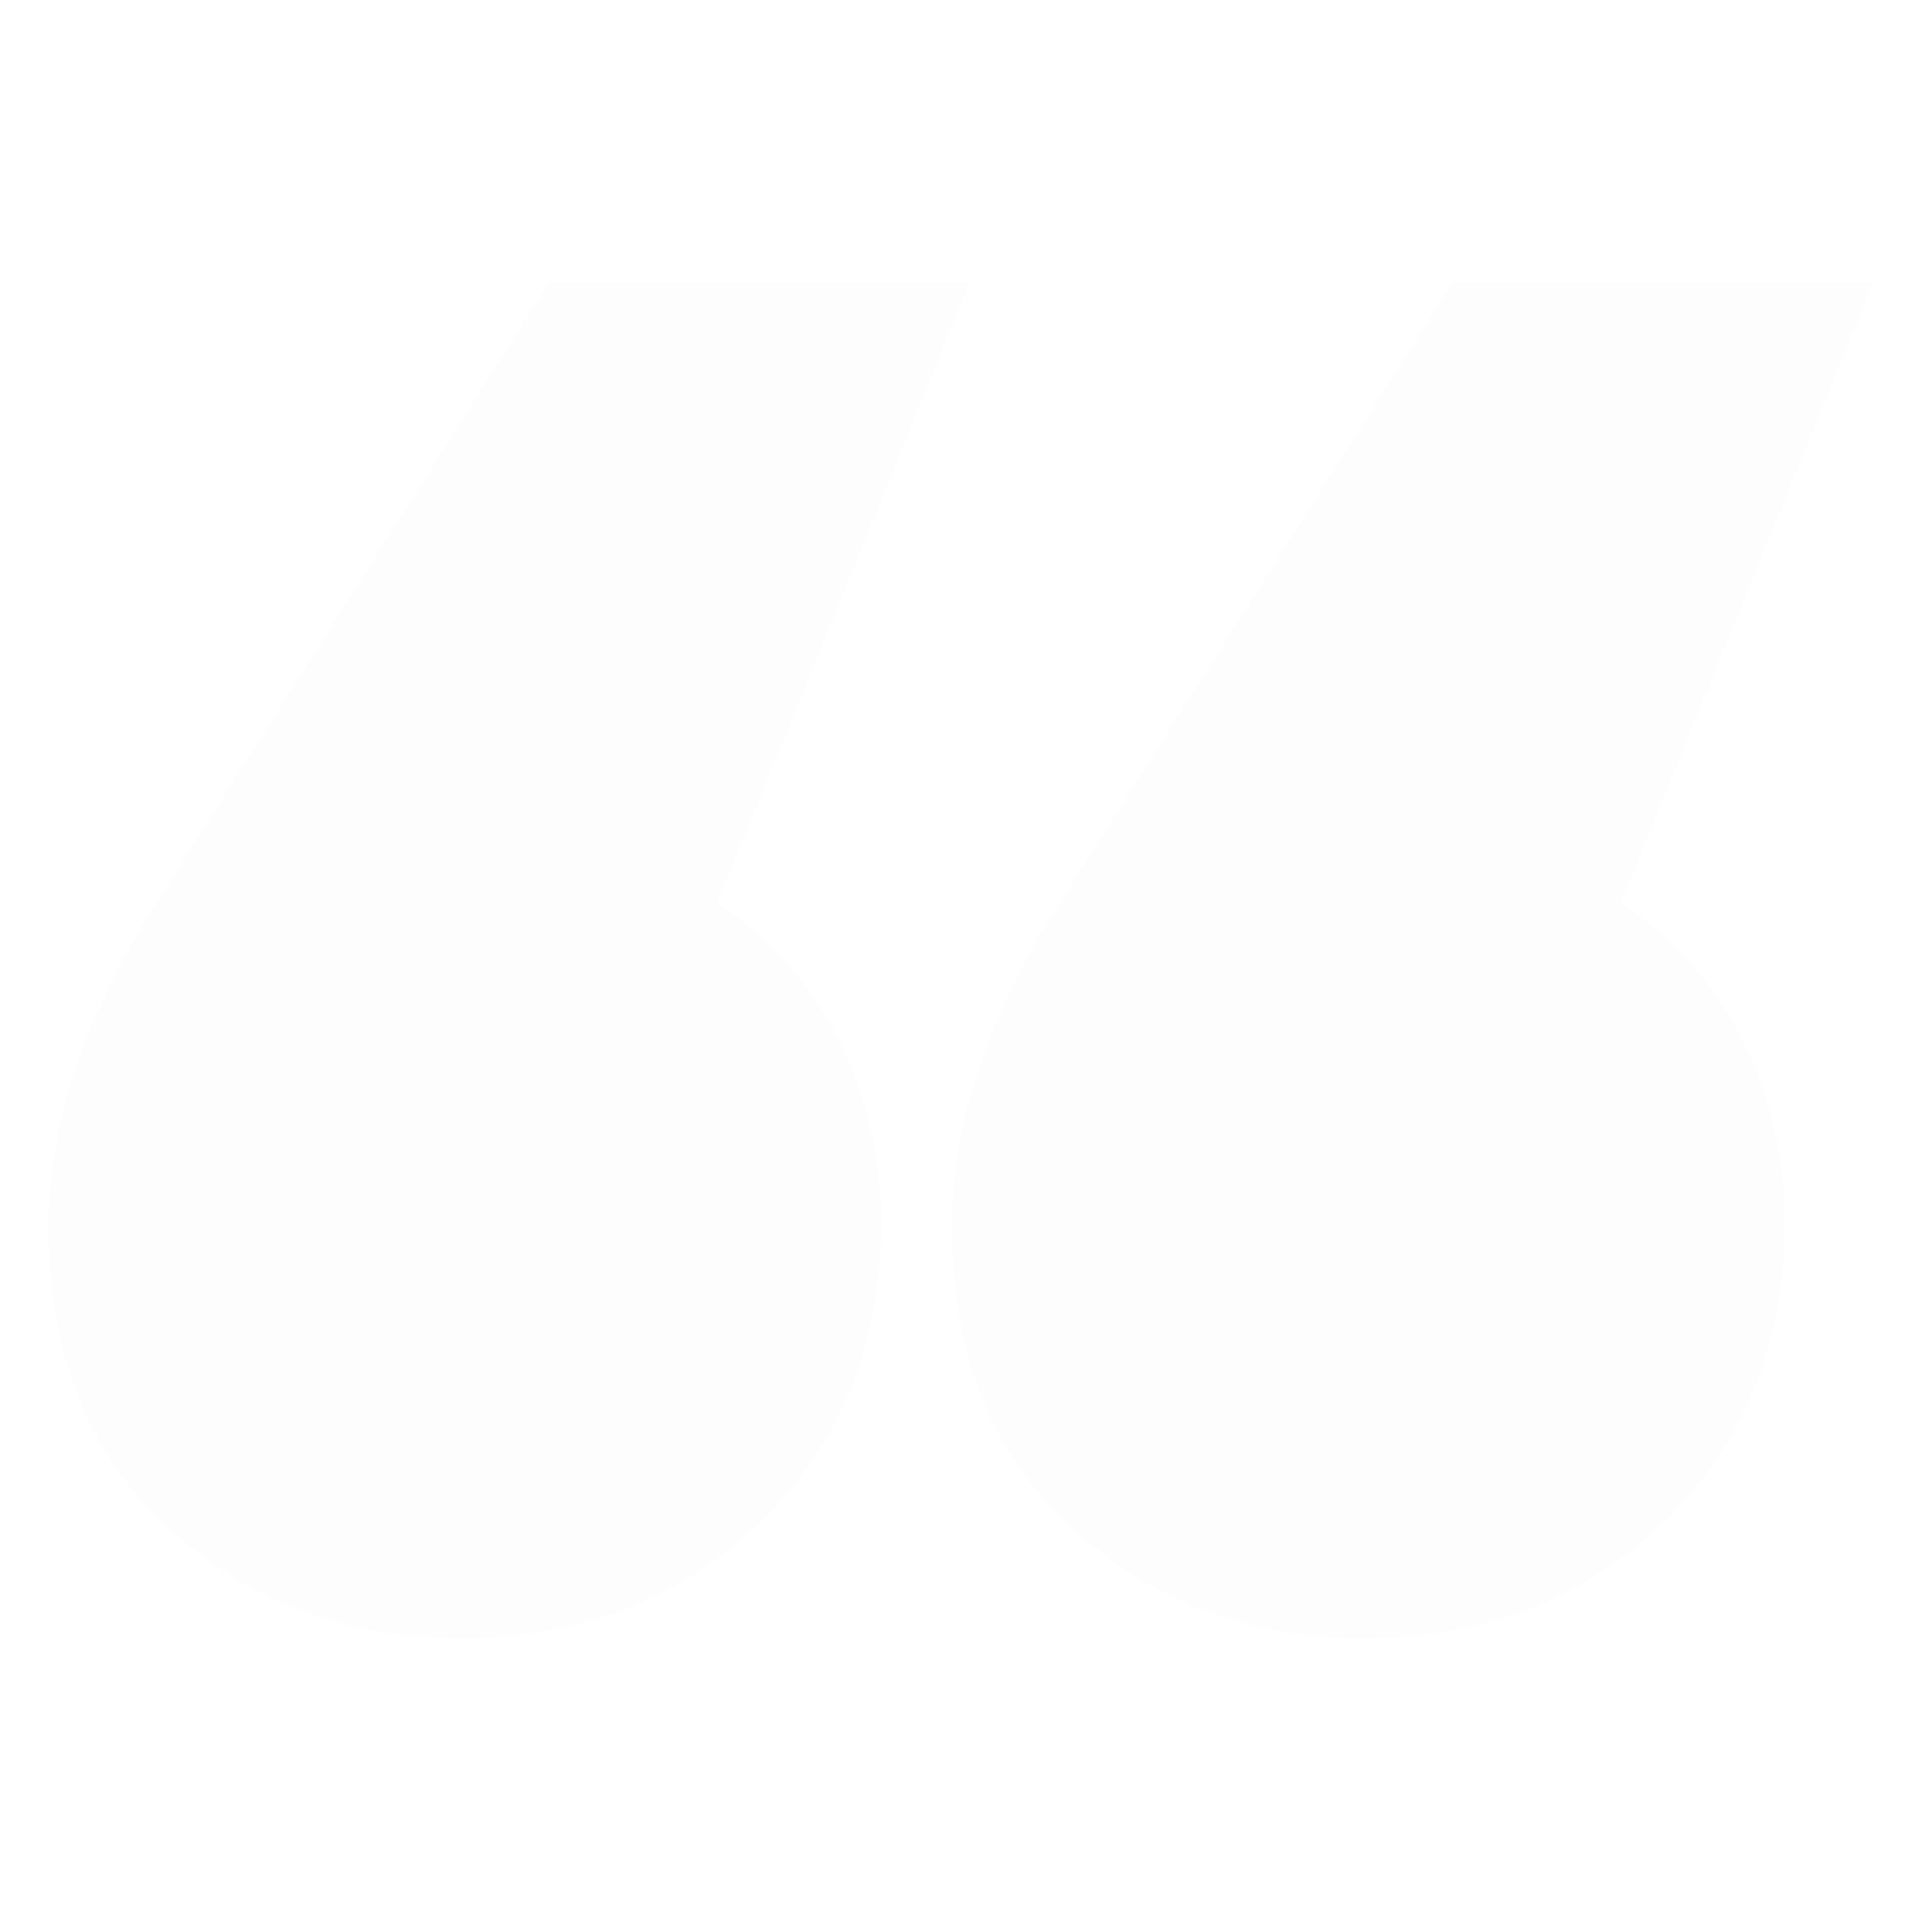
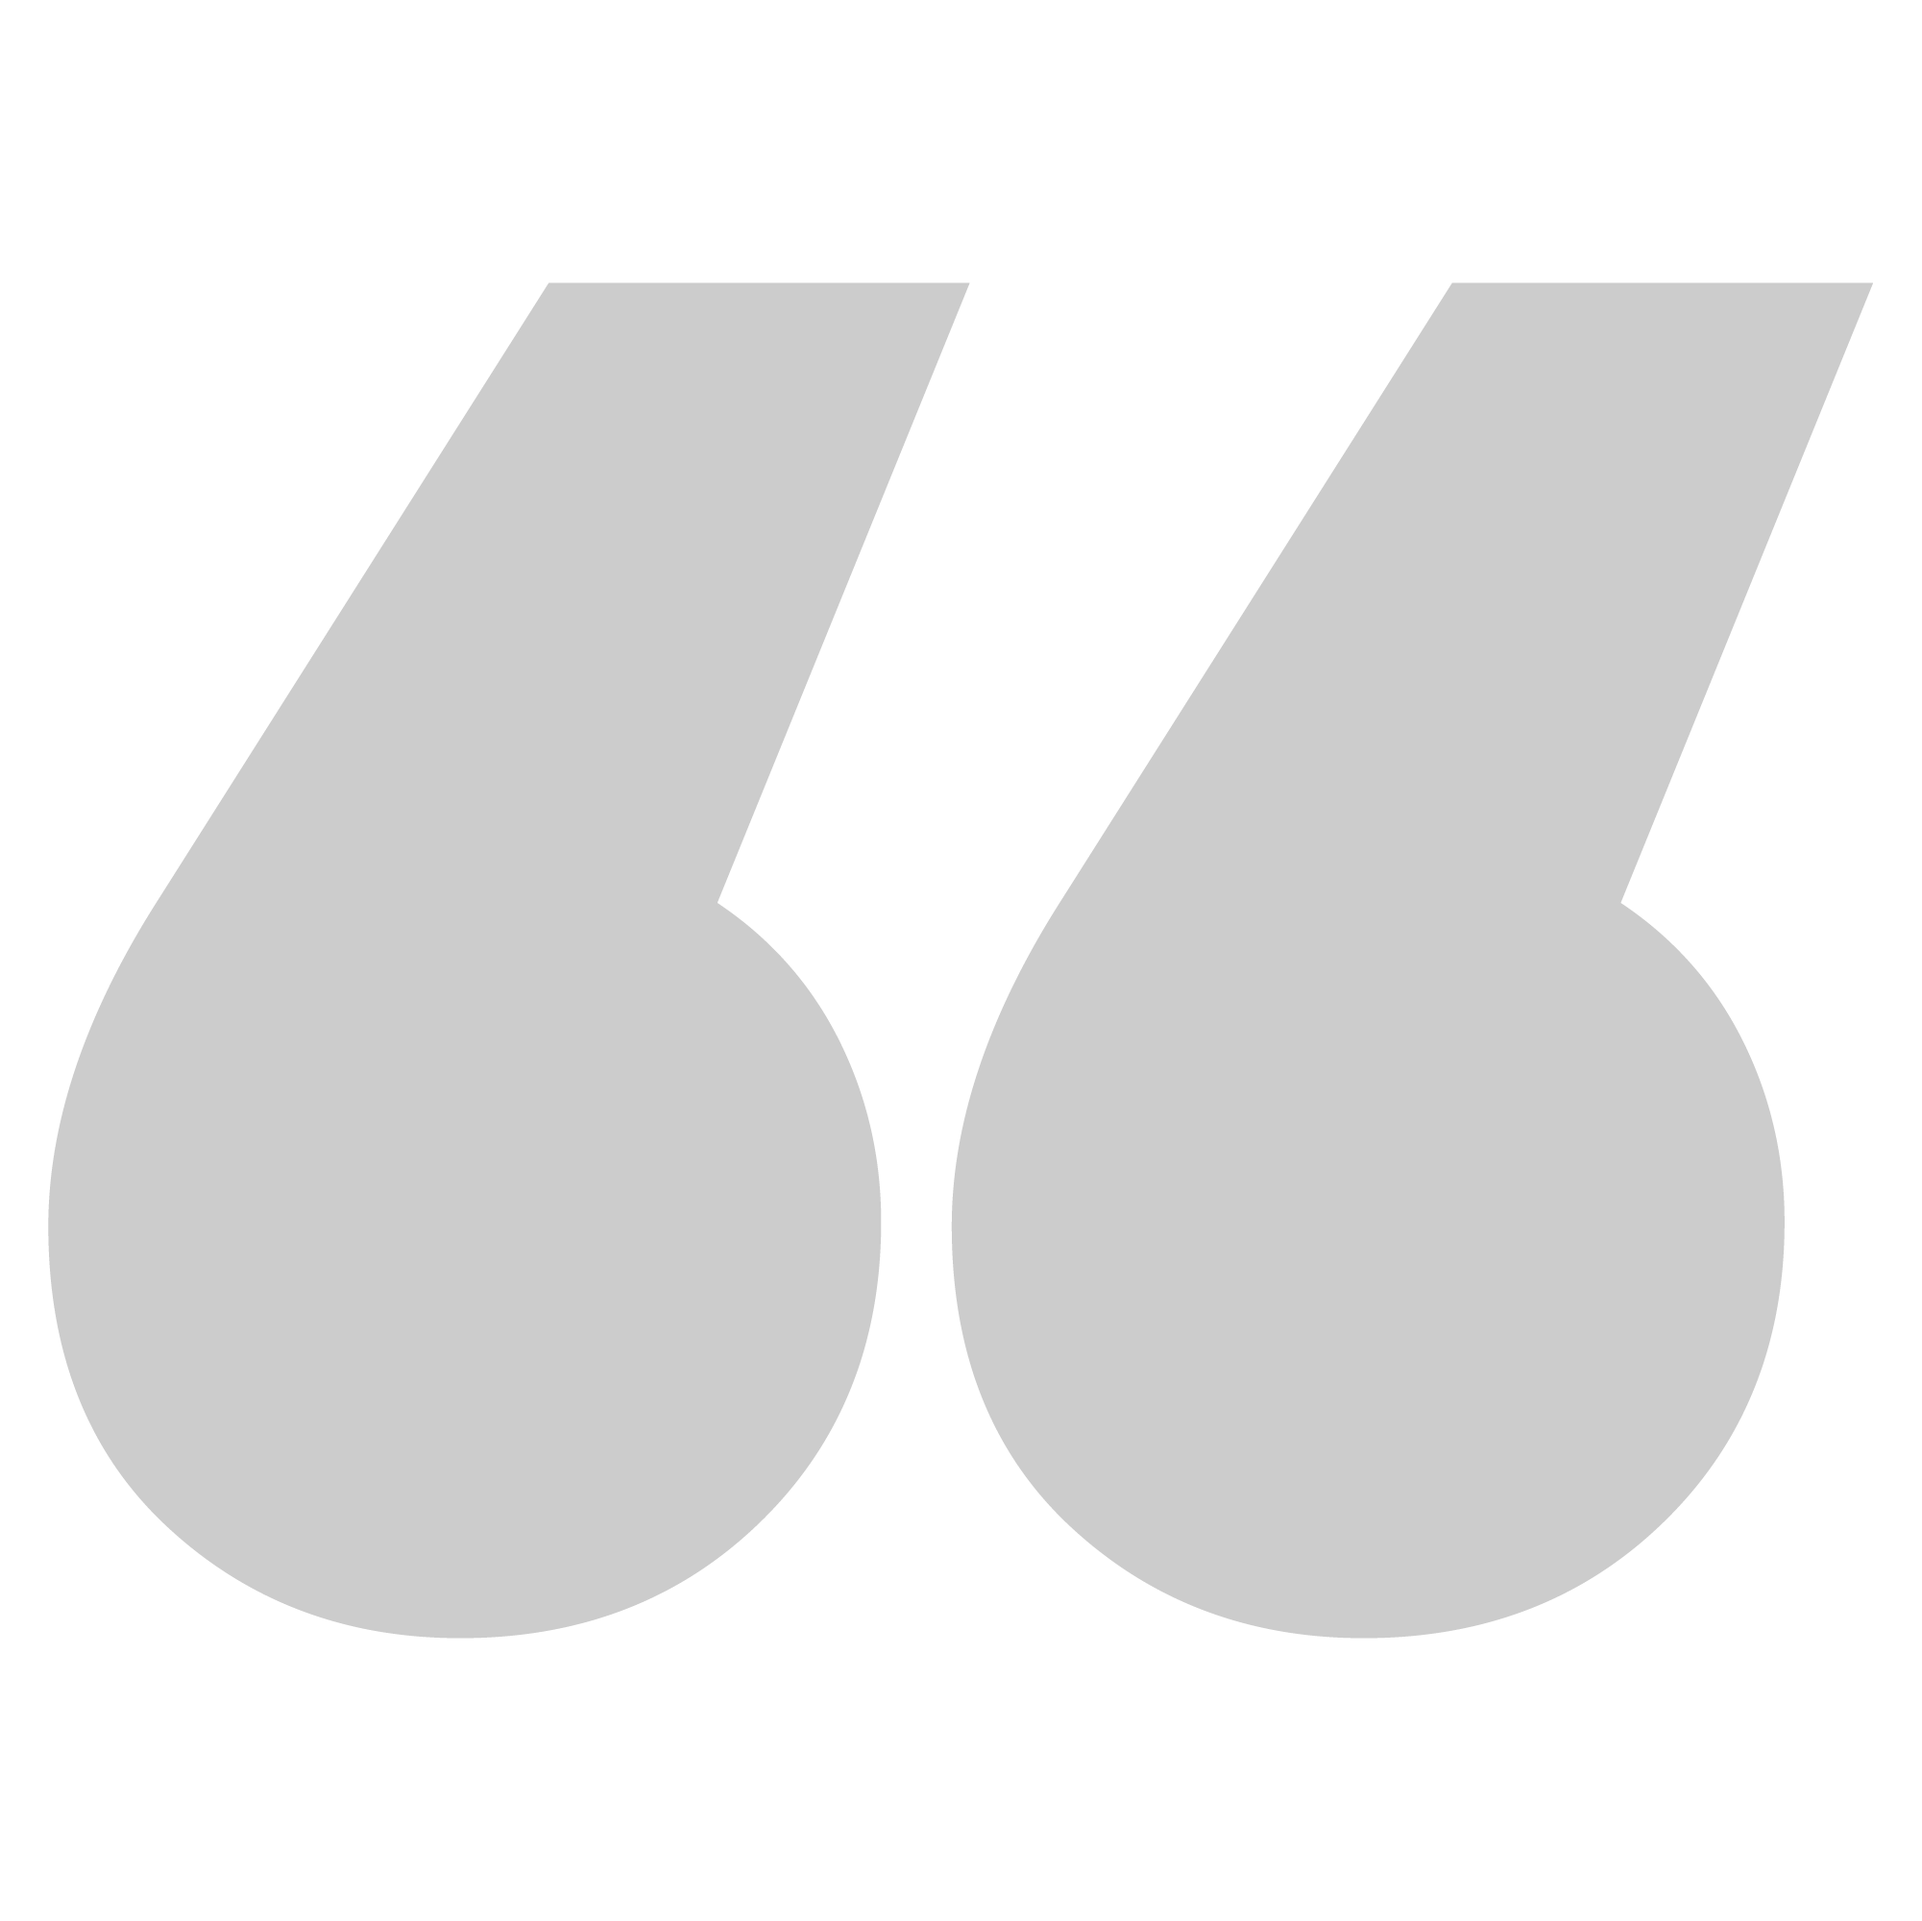
quote fix

diff --git a/casestudies/tablerockdairy.html b/casestudies/tablerockdairy.html
@@ -80,14 +80,12 @@
     </div>
 </div>
     
-<div class="sm-hero bg-image" style="background-image: url(/assets/casestudies/tablerockdairy/stamp.jpg)">
-    <div class="row full-height full-width dark-transparent-gradient middle sm-padding">
-        <div class="row max-width vertical-align md-padding">
-            <div class="col-xs-12 col-sm-6 md-padding white-color" style="background-image: url(/assets/img/quotes.png); background-repeat: no-repeat; background-position: top left; background-size: 50px;">
-                <h2 class="no-margin white-color">Is that goat just the cutest or what!???</h2>
-                <p class="white-color">Left Hook Design is compeletely amazing! The goat is not at all what I had in mind... but it's a million times better than anything I had thought of.</p>
-                <h4 class="right-text tiny-padding white-color">&mdash; Lauralee Wallace<br><span class="opacity">Owner</span></h4>
-            </div>
+<div class="sm-hero white-bg">
+    <div class="row max-width vertical-align md-padding">
+        <div class="col-xs-12 col-sm-6" style="background-image: url(/assets/img/quotes.png); background-repeat: no-repeat; background-position: top left; background-size: 50px;">
+            <h2 class="no-margin">Is that goat just the cutest or what!???</h2>
+            <p>Left Hook Design is compeletely amazing! The goat is not at all what I had in mind... but it's a million times better than anything I had thought of.</p>
+            <h4 class="right-text tiny-padding">&mdash; Lauralee Wallace<br><span class="opacity">Owner</span></h4>
         </div>
     </div>
 </div>
